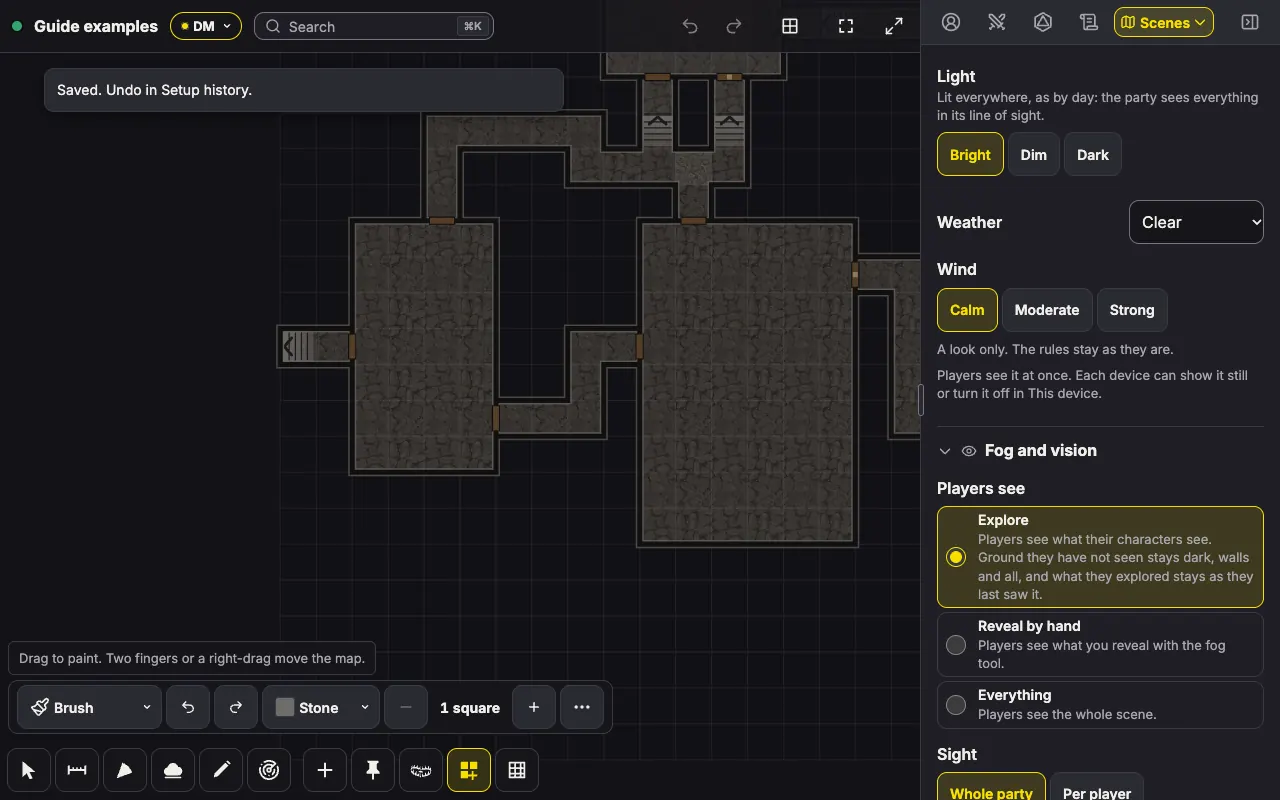
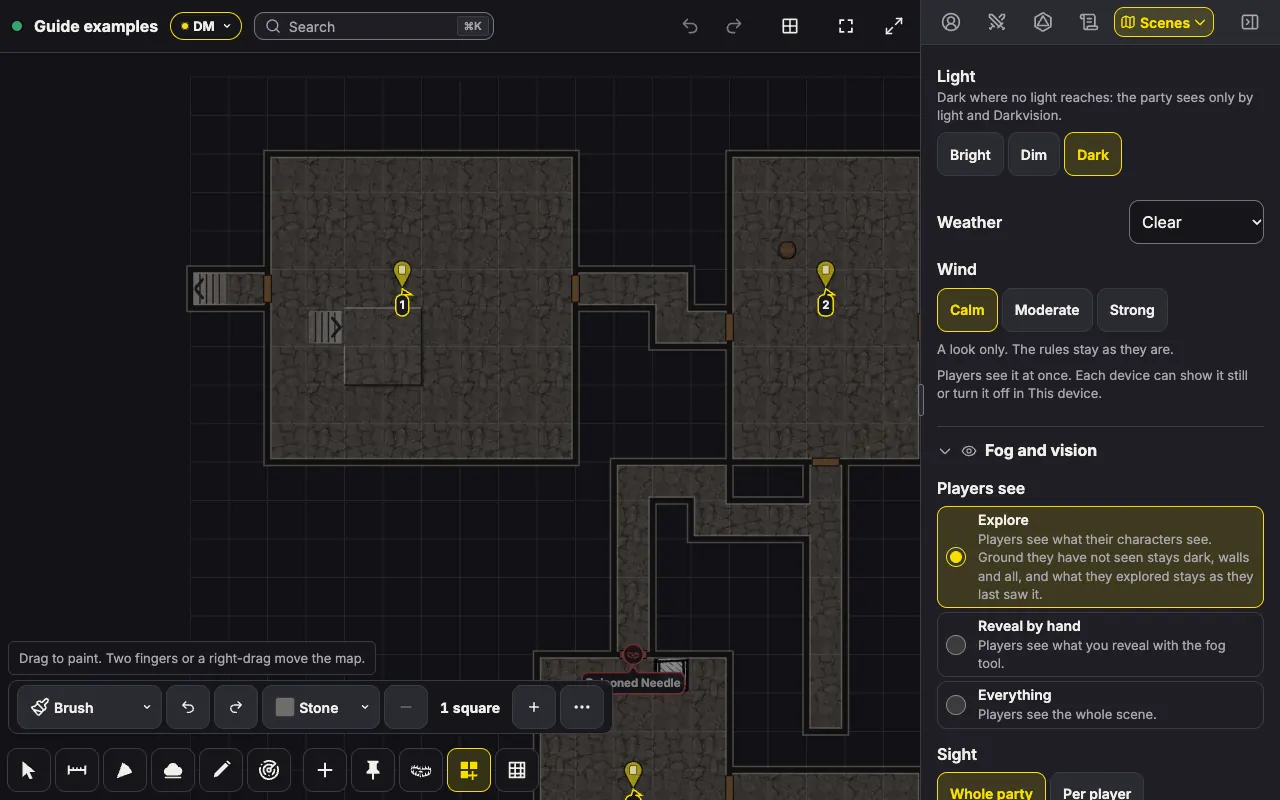
docs(guide): the dungeon generator's themes, secret doors, lights, key and look closer, with new pictures

Changed region(s): [[0.0312, 0.0625, 0.9688, 1.0]]

diff --git a/scripts/guide-dungeon.ts b/scripts/guide-dungeon.ts
@@ -1,17 +1,18 @@
 /**
  * The DM guide's pictures of the dungeon generator (docs/dm-guide.md,
  * "Generating a dungeon", docs/design/design-v1-dungeon-generator.md): the
- * Generate a dungeon dialog on its default choices with a preview, and the
- * scene Make the scene opens, framed on the entrance, taken from the real
- * server on the production build so they always show the app as it is.
+ * Generate a dungeon dialog on its default choices, the same dialog scrolled
+ * to its last rows, Look closer, the scene Make the scene opens framed on the
+ * entrance, and the DM key page in the Journal, taken from the real server on
+ * the production build so they always show the app as it is.
  *
  * The seed is fixed, so the same app version draws the same dungeon each
  * time the pictures are made again.
  *
  * It needs `pnpm build` first and a Postgres in DATABASE_URL. It makes a
- * room, writes docs/dm-guide/dungeon-generator.webp and
- * dungeon-generator-made.webp at 1280 x 800, as the guide's other pictures
- * are, and deletes the room:
+ * room, writes docs/dm-guide/dungeon-generator.webp, -rows, -closer, -made
+ * and -journal at 1280 x 800, as the guide's other pictures are, and deletes
+ * the room:
  *
  *   DATABASE_URL=postgres://... GUIDE_PORT=3197 node scripts/guide-dungeon.ts
  */
@@ -70,13 +71,13 @@ try {
   const panel = dm.getByRole("tabpanel", { name: sideTabName("Scenes") });
   const form = panel.getByRole("heading", { name: "New scene", exact: true }).locator("xpath=ancestor::*[self::section or @data-panel-group][1]");
   await form.getByRole("radio", { name: "Builder", exact: true }).click();
-  await form.getByRole("textbox", { name: "Scene name" }).fill("Sunken crypt");
+  await form.getByRole("textbox", { name: "Scene name" }).fill("Sunken halls");
   await form.getByRole("button", { name: "Generate a dungeon", exact: true }).click();
 
   const dialog = dm.getByRole("dialog", { name: "Generate a dungeon" });
   const seed = dialog.getByRole("textbox", { name: "Seed", exact: true });
   await seed.fill(SEED);
-  await dialog.getByRole("img", { name: /^Preview of the dungeon: \d+ rooms?, entrance on the (west|north|east|south) side\.$/ }).waitFor({ timeout: 30_000 });
+  await dialog.getByRole("img", { name: /^Preview of the dungeon: \d+ rooms?(, \d+ secret doors?)?(, \d+ lit rooms?)?, entrance on the (west|north|east|south) side\.$/ }).waitFor({ timeout: 30_000 });
   // The status line holds still once the preview for this seed stands.
   const status = dialog.locator("footer [aria-live=polite]");
   let last = "";
@@ -91,9 +92,26 @@ try {
   await dialog.getByText("Theme", { exact: true }).evaluate((el) => (el as unknown as { scrollIntoView(o: unknown): void }).scrollIntoView({ block: "start" }));
   await picture(dm, "dungeon-generator");
 
+  // The rows from Secret doors to DM key, with the light line showing.
+  await dialog.getByText("Secret doors", { exact: true }).evaluate((el) => (el as unknown as { scrollIntoView(o: unknown): void }).scrollIntoView({ block: "start" }));
+  await picture(dm, "dungeon-generator-rows");
+
+  // Look closer opens the DM view in the viewer, where the secret doors, traps and room numbers show.
+  await dialog.getByRole("button", { name: "Look closer", exact: true }).click();
+  await dm.getByRole("dialog", { name: /Sunken halls/ }).waitFor({ timeout: 60_000 });
+  await picture(dm, "dungeon-generator-closer");
+  await dm.keyboard.press("Escape");
+
   await dialog.getByRole("button", { name: "Make the scene", exact: true }).click();
   await dialog.waitFor({ state: "detached", timeout: 60_000 });
+  // The "Saved. Undo in Setup history." toast leaves by itself and no picture shows it.
+  await dm.locator("button[data-toast]").waitFor({ state: "detached", timeout: 30_000 });
   await picture(dm, "dungeon-generator-made");
+
+  // The DM key, the journal page Make filed in "Dungeon keys".
+  await openSideTab(dm, "Journal");
+  await dm.getByText("Sunken halls key", { exact: true }).first().click();
+  await picture(dm, "dungeon-generator-journal");
 } finally {
   if (roomId) await dmContext.request.delete(`${server.origin}/api/rooms/${roomId}`, { headers: { Origin: server.origin }, data: { name: roomName } }).catch(() => undefined);
   await browser.close();

diff --git a/docs/dm-guide.md b/docs/dm-guide.md
@@ -676,51 +676,75 @@ In the map builder, a rectangle room or a shape is asked about as a whole before
 
 ## Generating a dungeon
 
-When you need a dungeon and don't have an evening to paint one, the app can draw it for you from a few choices and a preview: a whole Builder scene, with rooms, corridors, doors, stairs and a few traps. It is an ordinary Builder scene, so you can reshape anything in it with the map builder afterward. Think of it as a floor plan to start from. It places no monsters, treasure, lights or furniture, because those depend on your story.
+When you need a dungeon and don't have an evening to paint one, the app can draw it for you from a few choices and a preview: a whole Builder scene, with rooms, corridors, doors, stairs, traps, secret doors, a few lit rooms and some furniture, and a DM-only key to it all. It is an ordinary Builder scene, so you can reshape anything in it with the map builder afterward. Think of it as a floor plan to start from. It places no monsters or treasure, because those depend on your story.
 
 **Starting.** Open **Scenes**, then **New scene**, and pick **Builder**. Under the row with **Create**, a line reads "Or start from a generated dungeon", with the **Generate a dungeon** button under it. The name you typed and your **Players see** choice come along into the dialog, so set them first if you want to. Generated dungeons are made on squares for now, so the button is off while the form's **Grid** is a hex shape, and a line under it says to pick **Squares**.
 
-![The Generate a dungeon dialog on its default choices: the preview at the left with the entrance room ringed in white, Theme, Size, Rooms, Density, Corridors and Corridor width on the right, and "12 rooms, 29 doors (5 locked), 2 traps." beside Cancel and Make the scene.](dm-guide/dungeon-generator.webp)
+![The Generate a dungeon dialog on its default choices: the preview at the left with numbered rooms and the entrance ringed in white, Theme, Size, Rooms, Density, Corridors and Corridor width on the right, and "12 rooms (1 secret), 29 doors (3 locked, 1 secret), 2 traps." in the foot.](dm-guide/dungeon-generator.webp)
 
 **The choices.** Each one redraws the preview a moment after you change it.
 
-- **Theme** is **Dungeon** or **Crypt**. A Dungeon has stone and wood rooms, rubble in some corridors, a few pits, and about one door in seven locked. A Crypt is all stone, any room 5 squares across and down or larger has a ring of pillars, and about one door in four is locked.
+- **Theme** is **Dungeon**, **Crypt**, **Cave**, **Mine** or **Sewer**, and each changes more than the floor.
+  - A Dungeon has stone and wood rooms, rubble in some corridors, a few pits, and about one door in seven locked.
+  - A Crypt is all stone, any room 5 squares across and down or larger has a ring of pillars, and about one door in four is locked.
+  - A Cave has rough caverns joined by tunnels that bulge here and there, rock columns in the larger caverns, and no doors at all. Since nothing in a cave closes, one tap of the **Fog** tool's **Builder room** shape reveals every cave the tunnels join, so reveal it a tunnel at a time with a rectangle when you want the party to find its way.
+  - A Mine has dirt chambers and tunnels with wooden doors, rubble where the old workings fell in, and open shafts one square across that work as pits.
+  - A Sewer has stone halls and corridors that run with water. Water costs double to cross but never closes a way, and a Wide sewer keeps a dry walkway beside its channel. Some larger rooms hold a cistern crossed by dry walkways to their doors.
 - **Size** is **Small**, **Medium** or **Large**, which are 30, 50 and 80 squares on a side, or **Custom**, where you type how many squares **Across** and **Down**, from 20 to 100. The line under the choice says what that comes to in feet.
 - **Rooms** is how many rooms you want. The line under it says how many the size can hold, which is one for every 90 squares of the map, and no more than 40. It starts at 6, 12 or 20 for the three sizes, and a number you type stays when you change the size, unless the new size holds fewer.
 - **Density** is **Sparse**, **Normal** or **Dense**, which sets how much of the map the rooms fill. Sparse makes smaller rooms with plenty of rock between them, and Dense makes larger rooms packed closer together.
 - **Corridors** are **Straight**, **Bending** or **Winding**. Straight corridors take the shortest way, with doorways that face each other and a turn only where one is needed. Bending corridors take a few deliberate turns, jogging aside and back, and their doorways sit off the line between the rooms. Winding corridors snake from side to side and, where two rooms stand close, wind around one of them, so they are the longest way round. The rooms stay where they are when you change this choice, so you can flip between the three and compare.
 - **Corridor width** is **Narrow** or **Wide**. A Wide corridor and its doorways are 2 squares across, with double doors, so Large creatures can walk through without squeezing once the doors are open.
 - **Extra ways around** adds loops, so the way back is not always the way you came in.
+- **Dead ends** adds straight corridors 3 to 8 squares long that end in rock, one for about every four rooms. With it on, a dead end is not always a sign of a secret door, which keeps your players from searching every one.
 - **Heights** is a slider for how many rooms are raised or sunk by 5 or 10 feet, from none at all up to three rooms in four. Its marks are **Flat**, **Few**, **Some**, **Many** and **Most**, and beside its name it tells you what that means for the rooms you asked for, such as "About 3 rooms of 12 off flat ground". You reach each raised or sunk room by a straight flight of stairs from its doors, and the entrance room always stays flat. On a small, crowded map a room may have no space for its stairs, so you can get a room or two fewer than it says.
-- **Traps** is a slider too, with the marks **None**, **Few** (about one trap for every six rooms), **Some** (one for every three) and **Many** (one for every two), and a step between each. Beside its name it counts them, such as "About 4 traps". When it is above None, **Party level** picks how strong they are: their save DCs, their damage and the depth of their pits follow the SRD for a party of levels 1 to 4, 5 to 10, 11 to 16 or 17 to 20. The generator uses four of the SRD's example traps: the Hidden Pit, the Spiked Pit, the Falling Net and the Poisoned Needle. They start hidden and never sit in the entrance room.
+- **Traps** is a slider too, with the marks **None**, **Few** (about one trap for every six rooms), **Some** (one for every three) and **Many** (one for every two), and a step between each. Beside its name it counts them, such as "About 4 traps". When it is above None, **Party level** picks how strong they are: their save DCs, their damage and the depth of their pits follow the SRD for a party of levels 1 to 4, 5 to 10, 11 to 16 or 17 to 20. The generator uses four of the SRD's example traps: the Hidden Pit, the Spiked Pit, the Falling Net and the Poisoned Needle. They start hidden and never sit in the entrance room. A generated dungeon can also hold a Collapsing Roof across a straight corridor, Poisoned Darts along a long Narrow one, and a Fire-Casting Statue against the wall of a Dungeon or Crypt room, which is placed only where its fire reaches its plate under every area rule, so changing the room's area rules later never leaves it harmless. At party levels 11 and up, a Wide corridor may hold a Rolling Stone: its stone is a hidden Large object token that the trap shows when it goes off.
+
+- **Secret doors** is a slider with the marks **None**, **Few**, **Some** and **Many**, and beside its name it counts them, such as "About 2 secret doors". They sit on extra ways around and on the only door of some rooms, which become secret rooms. A secret door is never locked and never at the top of a stair, and every room can still be reached without finding one. A Cave has none, so the row is held at **None** there, and your pick comes back when you change the theme.
+- **Lit rooms** is a slider with the marks **None**, **Few**, **Half** and **All**, and beside its name it counts the rooms, such as "About 3 of 12 rooms lit". Each lit room gets the theme's light: a fire pit in a Dungeon, a candelabra in a Crypt, a campfire in a Cave, a lantern in a Mine or a Sewer. Each one is a real light with its SRD radii, so it lights the room for the party.
+- **The light line** shows under Lit rooms while it is above **None**. By default the scene starts dark with party vision on, so only its lights and the party's own sight show the party the way. If you would rather start from a lit scene, press **Keep it lit**, and the scene keeps the form's **Players see** choice with the light on **Bright**. The line then offers **Start it dark** to go back. The dialog remembers the tap until it closes.
+- **Dressing** is **None**, **Some** or **Full**, and starts on **Some**. It places furniture, bones and clutter from the stamps the app ships, kept off the ways through each room, so a table never blocks a door. **Some** furnishes about two rooms in three, and **Full** furnishes every room.
+- **DM key** starts on. It adds a page to the Journal and a numbered pin in each room, both for you alone (see **The key** below). When the Journal has no room for another page, the switch turns off with "The journal is full, so there is no room for a key."
 
 To move a slider, drag it or tap one of the marks under it. With a keyboard, the arrow keys move it a step at a time, **Page Up** and **Page Down** jump to the next mark, and **Home** and **End** go to either end.
 
 Whatever you choose, a room 6 squares across and down or larger may have a dais, a platform 5 feet up with a stair onto it, so you can have raised ground even with **Heights** at **Flat**.
 
-**The preview.** The picture shows exactly what **Make the scene** will build, drawn the way Export as image draws a DM view, with each trap's zone hatched in red and a white ring round the entrance room. Under the choices, a line counts the rooms, doors and traps, such as "12 rooms, 29 doors (4 locked), 2 traps." After every change, **Make the scene** waits until the new picture is drawn, with "Drawing the dungeon…" in the corner of the preview meanwhile, so the dungeon you make is always the one in the picture.
+![The dialog scrolled to its last choices: Secret doors on Few, Lit rooms on Few with its line and the Keep it lit button, Dressing on Some and DM key switched on.](dm-guide/dungeon-generator-rows.webp)
+
+**The preview.** The picture shows exactly what **Make the scene** will build, drawn the way Export as image draws a DM view, with each trap's zone hatched in red, a white ring round the entrance room, a small ring for each light and, with **DM key** on, the number of each room. In the foot, a line counts the rooms, doors and traps, such as "12 rooms (1 secret), 29 doors (3 locked, 1 secret), 2 traps." A Cave counts "no doors". After every change, **Make the scene** waits until the new picture is drawn, with "Drawing the dungeon…" in the corner of the preview meanwhile, so the dungeon you make is always the one in the picture.
 
 - If the size can't hold all the rooms you asked for, the line says so, for example "Fit 9 of 12 rooms. A larger size or fewer rooms fits them all."
 - When not even two rooms fit, the dialog says so and turns **Make the scene** off until you pick a larger size, fewer rooms or Sparse.
 - If your device can't draw the picture, the dialog says so and keeps **Make the scene** off. Press **Reroll** or change a choice to try again.
 
-**Reroll and the seed.** **Reroll**, in the corner of the preview, draws another dungeon from the same choices. Every dungeon comes from a seed, a code of 16 letters and digits such as `5K7Q-H2MX-A9F3-TWQ5`, shown in the **Seed** field at the bottom of the choices. The same seed with the same choices makes the same dungeon again on this version of the app, so press **Copy seed** to keep one you like, or to share it with another DM. It copies the seed in that usual form, however you typed it. You can type a seed in as well, and capitals, spaces and dashes don't matter. A seed from another version of the generator says that it makes a different dungeon now. The dialog remembers your last choices for the room, but never the seed, and the seed is never saved in the scene, so copy it before you make the scene if you will want it later.
+**Look closer.** The preview is small on a phone, so **Look closer**, in its bottom left corner, opens the same DM view large. It says "Drawing the dungeon…" at once and then shows the picture in the same viewer a handout opens in, titled with the dungeon's name. Secret doors show as an "S", and traps, secret rooms and room numbers show there too, so it is the place to check a dungeon before you make it. Pinch, double tap, the wheel, **+**, **−** and **0** zoom it, and closing it puts you back on **Look closer**.
 
-**Making the scene.** Press **Make the scene**. The foot counts the dungeon's pieces as the server takes them ("Making the dungeon… 18 of 30"), and **Cancel** becomes **Hide**, which lets you close the dialog while it finishes. The choices, **Reroll** and the seed wait meanwhile, so nothing you touch can change a dungeon already on its way, though **Copy seed** still works. Once you close the dialog on a dungeon that was sent, the **New scene** form starts over, just as it does after **Create**, so you can't make an empty second scene with the same name by mistake. When it is done, the app opens the new scene on your screen with the **Map builder** picked, zoomed on the entrance room so you can see where the party comes in. Only your screen is framed that way: every other device opens it as it would open any Builder scene, so players never learn from it where the entrance is.
+![Look closer: the whole dungeon in the viewer, titled "Sunken halls", with its room numbers and the line "The DM view: secret doors, traps and room numbers show only here."](dm-guide/dungeon-generator-closer.webp)
 
-![The new scene, opened on the entrance room: a door in its west wall opens on a short corridor to the map's edge, where the party comes in, one in its north wall leads to stairs up to more rooms, and one in its east wall leads round to a larger room. The Scenes panel shows Players see on Explore.](dm-guide/dungeon-generator-made.webp)
+**Reroll and the seed.** **Reroll**, in the corner of the preview, draws another dungeon from the same choices. Every dungeon comes from a seed, a code of 16 letters and digits such as `5K7Q-H2MX-A9F3-TWQ5`, shown in the **Seed** field at the bottom of the choices. The same seed with the same choices makes the same dungeon again on this version of the app at the same feet per square, so press **Copy seed** to keep one you like, or to share it with another DM. It copies the seed in that usual form, however you typed it. You can type a seed in as well, and capitals, spaces and dashes don't matter. A seed from another version of the generator says that it makes a different dungeon now. The dialog remembers your last choices for the room, but never the seed, and the seed is never saved in the scene, so copy it before you make the scene if you will want it later.
+
+**Making the scene.** Press **Make the scene**. A dungeon goes out as up to 100 changes, and past the 60 the server takes at once the rest follow at a steady pace. The foot counts the pieces as the server takes them ("Making the dungeon… 18 of 30"), and **Cancel** becomes **Hide**, which lets you close the dialog while it finishes. The choices, **Reroll** and the seed wait meanwhile, so nothing you touch can change a dungeon already on its way, though **Copy seed** still works. Once you close the dialog on a dungeon that was sent, the **New scene** form starts over, just as it does after **Create**, so you can't make an empty second scene with the same name by mistake. When it is done, the app opens the new scene on your screen with the **Map builder** picked, zoomed on the entrance room so you can see where the party comes in. Only your screen is framed that way: every other device opens it as it would open any Builder scene, so players never learn from it where the entrance is.
+
+![The new scene, opened on the entrance room: a corridor at its west end leads to the map's edge, a door in its east wall leads on to room 2, and each room carries a gold numbered pin. The Scenes panel shows Light on Dark and Players see on Explore.](dm-guide/dungeon-generator-made.webp)
 
 If the connection is down when you press it, the foot says "Waiting for the server…", and the dungeon is sent when you are back online.
 
-**What players see.** The new scene starts on the **Players see** choice the form had. Nothing of it reaches a player while the players are on another scene. On **Explore** or **Reveal by hand**, they get only the ground the party has seen or you have revealed once you move them there. A locked door reads as closed to them, and they see a trap only once they find it. If the form's choice leaves fog off, such as **Everything**, a line above the dialog's foot warns you that "Players see this scene without fog, so every room shows at once", so you can change your mind before you make it. On a generated dungeon, one tap of the **Fog** tool's **Builder room** shape reveals exactly one room, since every doorway has a closed or locked door that stops it.
+**What players see.** The new scene starts on the **Players see** choice the form had, or on **Explore** with the light on **Dark** when Lit rooms is above **None** and you did not press **Keep it lit**. Nothing of it reaches a player while the players are on another scene. On **Explore** or **Reveal by hand**, they get only the ground the party has seen or you have revealed once you move them there, the furniture only on ground they have seen, and a light only as what their characters see lit. A locked door reads as closed to them, and they see a trap only once they find it. They never get the key, the pins, a Rolling Stone's hidden stone or a secret door, which looks like the wall beside it until you find it for them. If the form's choice leaves fog off, such as **Everything**, a line above the dialog's foot warns you that "Players see this scene without fog, so every room shows at once", so you can change your mind before you make it, and it adds "secret rooms too" when the dungeon has one. On a generated dungeon, one tap of the **Fog** tool's **Builder room** shape reveals exactly one room, since every doorway has a closed or locked door that stops it.
 
-**Editing it.** Every builder mode edits a generated dungeon, **Fog** reveals it, and **Duplicate** and **Export as image** work as on any scene. All of its walls are automatic, rising around the floor on their own rather than drawn, so a player's map never shows a wall that gives away a room they have not found yet. Add monsters, lights, stamps and labels as you would on a map you built yourself.
+**Secret doors.** A secret door is closed and hidden, and players see plain wall there. A secret room has one door only, and it is secret, so the party meets a blank end of corridor against a room's wall, which is a clue players can reason from, while a dead end stops a square short of any room. When someone searches and finds one, tap it with **Select** and press **Mark found** (see [Walls and doors](#walls-and-doors)). A secret door in a Wide corridor is two edges, and you mark each one found.
 
-**Taking it back.** The whole dungeon goes in as one step in **Setup history**, so one **Undo setup** usually takes all of it back, and **Redo setup** puts it back. The app tells you where to find it: "Saved. Undo in Setup history." It takes more than one step when you used another device as the same DM while the dungeon was being sent, when a co-DM's edit on the new scene stops the steps from merging, or when the server was restarted, which empties the histories.
+**The key.** With **DM key** on, the Journal gains a page named for the scene and ending in "key", in a folder called "Dungeon keys", and each room gets a numbered pin in your color, linked to that page. Only you see either. The page opens with how the dungeon was made, the choices and the size in feet, then gives one paragraph for each room, numbered from the entrance outward: its size, its height, its doors with where each leads and whether it is locked or secret, its dais, its light, its traps and a trinket from the SRD's Trinkets table, each used once. Tap a pin with **Select** to open its page.
 
-**Delete** in the scene's menu in the **Scenes** panel is the sure way back, since it takes away the scene and everything in it however many steps it made. **Delete** is refused for the scene the players are on, and so is **Undo setup** when it would take that scene away. If you moved the players to the new scene, move them to another scene first, then use either one.
+![The key in the Journal: the folder "Dungeon keys" holding "Sunken halls key", open to its opening lines about how the dungeon was made and then room 1, room 2 and room 3 with their doors and trinkets.](dm-guide/dungeon-generator-journal.webp)
 
-If the connection drops during **Make the scene**, the app opens the new scene and compares it with the preview. When everything arrived, it says the dungeon is complete. When it cannot confirm that, it says so, and **Delete** in the scene's menu removes the scene once the players are on another scene. If the server refuses part of the dungeon, which only happens when the room is close to its limits, the scene may be missing rooms, doors or traps, and the dialog says so with the same two ways back.
+**Editing it.** Every builder mode edits a generated dungeon, **Fog** reveals it, and **Duplicate** and **Export as image** work as on any scene. All of its walls are automatic, rising around the floor on their own rather than drawn, so a player's map never shows a wall that gives away a room they have not found yet. Its furniture and lights are ordinary stamps and lights, so move or delete them as you would your own, and add monsters, more lights, stamps and labels as you would on a map you built yourself.
+
+**Taking it back.** The whole dungeon goes in as one step in **Setup history**, so one **Undo setup** usually takes all of it back, key page and pins included, and **Redo setup** puts it back. The app tells you where to find it: "Saved. Undo in Setup history." It takes more than one step when you used another device as the same DM while the dungeon was being sent, when a co-DM's edit on the new scene stops the steps from merging, or when the server was restarted, which empties the histories.
+
+**Delete** in the scene's menu in the **Scenes** panel is the sure way back, since it takes away the scene and everything in it however many steps it made. The key page is the one thing it leaves, in the Journal, so delete that page there. **Delete** is refused for the scene the players are on, and so is **Undo setup** when it would take that scene away. If you moved the players to the new scene, move them to another scene first, then use either one.
+
+If the connection drops during **Make the scene**, the app opens the new scene and compares it with the preview. When everything arrived, it says the dungeon is complete. When it cannot confirm that, it says so, and **Delete** in the scene's menu removes the scene once the players are on another scene. If the server refuses part of the dungeon, which only happens when the room is close to its limits, the scene may be missing rooms, doors, traps, lights, stamps or its key, and the dialog says so with the same two ways back.
 
 ## Map phases, imports and exports
 
